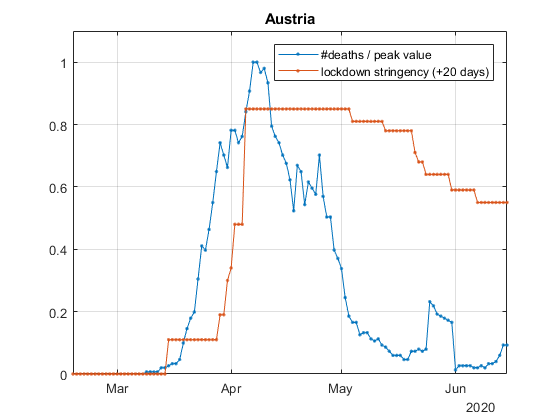
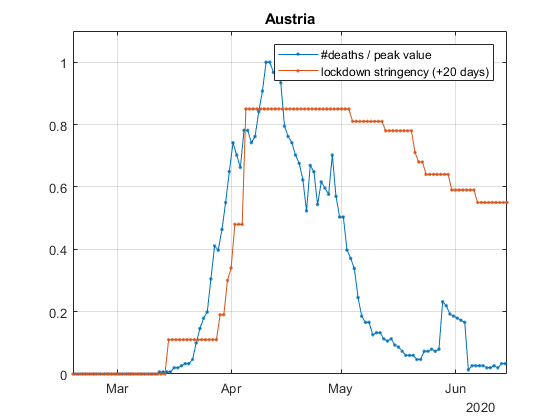
wip

Changed region(s): [[0.1518, 0.1238, 0.9107, 0.8976]]

diff --git a/lockdown.m b/lockdown.m
@@ -15,10 +15,10 @@ lockdowns = jsondecode(fileread('data\ft_lockdown.json'));
 % country = 53; countryLd = 46; % Denmark
 % country = 144; countryLd = 119; % Norway
 % country = 200; countryLd = 59; % UK
-country = 176; countryLd = 52; % Spain
+% country = 176; countryLd = 52; % Spain
 % country = 97; countryLd = 82; % Italy
 % country = 20; countryLd = 12; % Belgium
-% country = 13; countryLd = 9; % Austria
+country = 13; countryLd = 9; % Austria
 nmean = 7;
 dateFormat = 7;
 
@@ -53,7 +53,7 @@ end
 % % datetick('x',dateFormat, 'keepticks')
 
 [day0, day1, day2, deaths] = getDeaths(country,nmean);
-plot(day2, deaths/max(deaths), '.-'); hold on
+plot(day2 + 3.5, deaths/max(deaths), '.-'); hold on
 plot(lockdownStringencyDay + 20, lockdownStringency/100, '.-'); hold on
 grid on
 title([rates.allData.world(country).area]);% iso3(countryLd)]);
